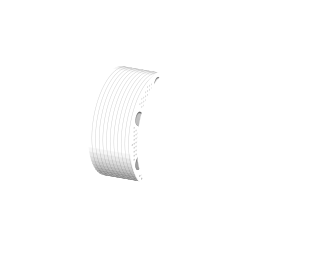
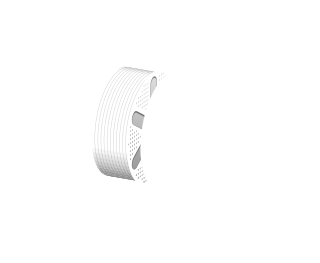
feat(ams): spools take a real spool proportion (prestonbrown/helixscreen#2068)

Changed region(s): [[0.375, 0.4259, 0.4688, 0.6996], [0.2812, 0.5779, 0.3438, 0.6692], [0.4688, 0.2738, 0.5, 0.365]]

diff --git a/include/ams_tray_projection.h b/include/ams_tray_projection.h
@@ -26,7 +26,7 @@ inline constexpr float kBoxDepthMargin = 0.10f;    // box depth: a spool diamete
 inline constexpr float kDepthRise = 0.09f;         // back edges rise this share of the depth
 inline constexpr float kSpoolFloorGap = 2.0f;      // flange bottom above the floor's front edge
 inline constexpr float kLidGap = 1.0f;             // lid crest above the spool tops
-inline constexpr float kSpoolWidth = 0.35f;        // flange-to-flange width / spool size
+inline constexpr float kSpoolWidth = 0.294f;       // flange-to-flange width / spool size
 inline constexpr float kPitchClearance = 16.0f;    // free space between neighbouring spools
 
 struct PointF {

diff --git a/tests/unit/test_ams_tray_projection.cpp b/tests/unit/test_ams_tray_projection.cpp
@@ -188,8 +188,8 @@ TEST_CASE("tray projection: per-lane lids meet the box corners", "[ams][tray]") 
 }
 
 TEST_CASE("tray projection: slot pitch from the spool size", "[ams][tray]") {
-    // Footprint 21 + 2 * 11, half the 25.4 px cap tuck, 16 px clear.
-    CHECK(spool_pitch(61) == 72);
+    // Footprint 17 + 2 * 11, half the 25.4 px cap tuck, 16 px clear.
+    CHECK(spool_pitch(61) == 68);
 }
 
 TEST_CASE("tray projection: any climate data gets glass", "[ams][tray]") {

diff --git a/docs/devel/plans/2026-11-08-unit-art.md b/docs/devel/plans/2026-11-08-unit-art.md
@@ -56,7 +56,7 @@
 ### Task 2: Spool width decision (Preston)
 
 - [ ] **Step 1:** Using the kit, render the ACE and a tray at the current `kSpoolWidth` 0.35 and at a real-proportion value (about 0.294, so width is 35 percent of flange diameter).
-- [ ] **Step 2:** Show both to Preston via `show_image` and record the answer here. Tasks 3 onward use it. If changed, update `include/ams_tray_projection.h` and the `[ams][tray]` expectations in a separate commit.
+- [x] **Step 2:** Preston chose the real-proportion width, 0.294. Tasks 3 onward use it. If changed, update `include/ams_tray_projection.h` and the `[ams][tray]` expectations in a separate commit.
 
 ### Task 3: Generated tray shell table
 
